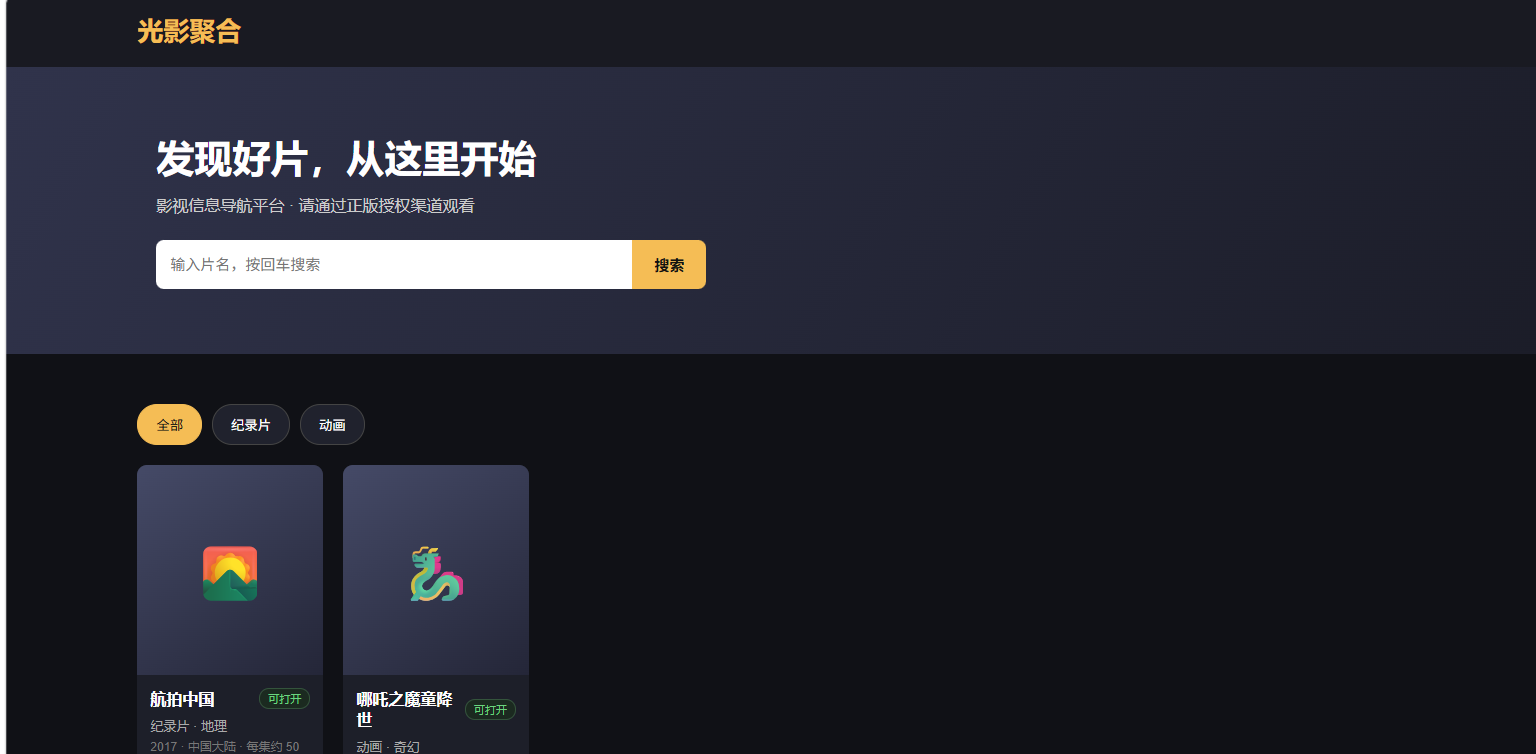
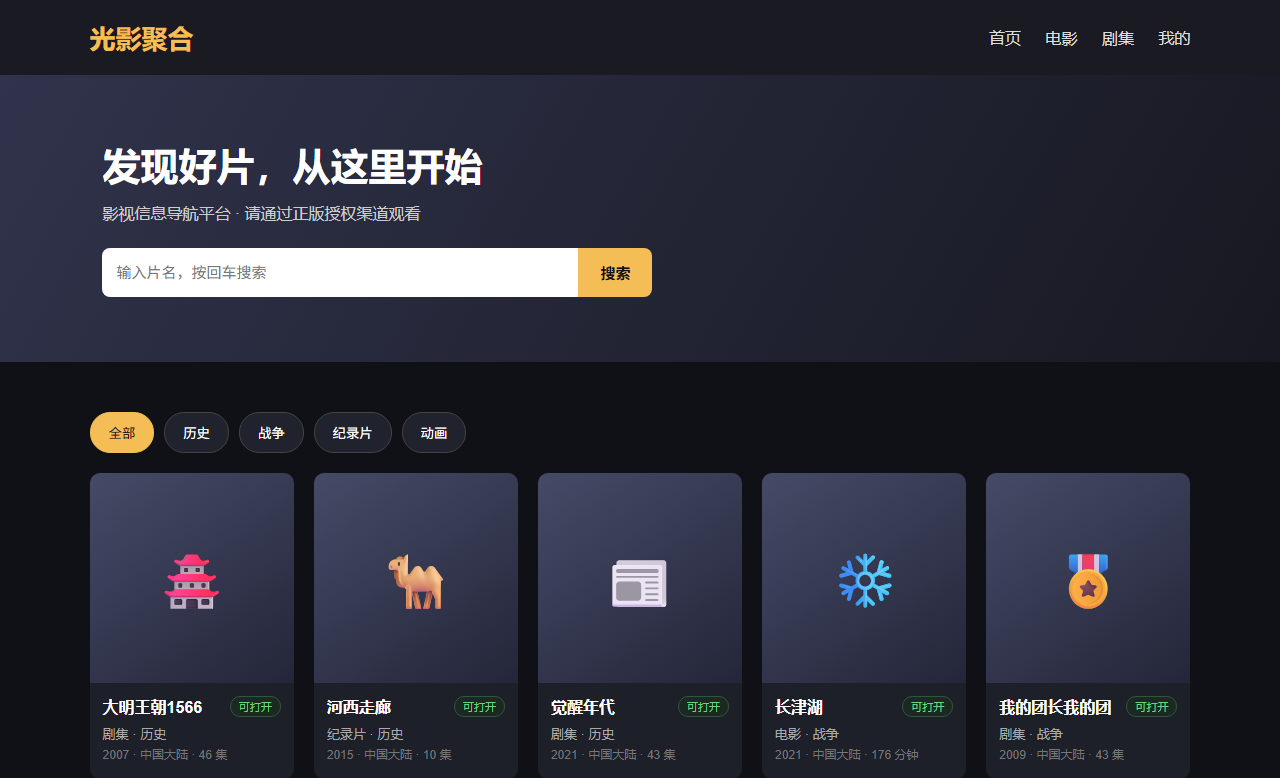
feat: 新增 6 部历史/战争题材影片，分类筛选支持多标签

diff --git a/index.html b/index.html
@@ -477,11 +477,67 @@ main {
 
   <div class="categories">
     <button class="active" onclick="filterMovies('全部', this)">全部</button>
+    <button onclick="filterMovies('历史', this)">历史</button>
+    <button onclick="filterMovies('战争', this)">战争</button>
     <button onclick="filterMovies('纪录片', this)">纪录片</button>
     <button onclick="filterMovies('动画', this)">动画</button>
   </div>
 
   <div class="movies">
+
+    <div class="movie" data-type="历史" data-name="大明王朝1566" onclick="openDetail('大明王朝1566')">
+      <div class="poster">🏯</div>
+      <div class="movie-info">
+        <h3>大明王朝1566 <span class="badge">可打开</span></h3>
+        <p>剧集 · 历史</p>
+        <p class="meta">2007 · 中国大陆 · 46 集</p>
+      </div>
+    </div>
+
+    <div class="movie" data-type="历史 纪录片" data-name="河西走廊" onclick="openDetail('河西走廊')">
+      <div class="poster">🐫</div>
+      <div class="movie-info">
+        <h3>河西走廊 <span class="badge">可打开</span></h3>
+        <p>纪录片 · 历史</p>
+        <p class="meta">2015 · 中国大陆 · 10 集</p>
+      </div>
+    </div>
+
+    <div class="movie" data-type="历史" data-name="觉醒年代" onclick="openDetail('觉醒年代')">
+      <div class="poster">📰</div>
+      <div class="movie-info">
+        <h3>觉醒年代 <span class="badge">可打开</span></h3>
+        <p>剧集 · 历史</p>
+        <p class="meta">2021 · 中国大陆 · 43 集</p>
+      </div>
+    </div>
+
+    <div class="movie" data-type="战争" data-name="长津湖" onclick="openDetail('长津湖')">
+      <div class="poster">❄</div>
+      <div class="movie-info">
+        <h3>长津湖 <span class="badge">可打开</span></h3>
+        <p>电影 · 战争</p>
+        <p class="meta">2021 · 中国大陆 · 176 分钟</p>
+      </div>
+    </div>
+
+    <div class="movie" data-type="战争" data-name="我的团长我的团" onclick="openDetail('我的团长我的团')">
+      <div class="poster">🎖</div>
+      <div class="movie-info">
+        <h3>我的团长我的团 <span class="badge">可打开</span></h3>
+        <p>剧集 · 战争</p>
+        <p class="meta">2009 · 中国大陆 · 43 集</p>
+      </div>
+    </div>
+
+    <div class="movie" data-type="战争" data-name="八佰" onclick="openDetail('八佰')">
+      <div class="poster">🧱</div>
+      <div class="movie-info">
+        <h3>八佰 <span class="badge">可打开</span></h3>
+        <p>电影 · 战争</p>
+        <p class="meta">2020 · 中国大陆 · 147 分钟</p>
+      </div>
+    </div>
 
     <div class="movie" data-type="纪录片" data-name="航拍中国" onclick="openDetail('航拍中国')">
       <div class="poster">🌄</div>
@@ -541,6 +597,42 @@ var MOVIES = {
     meta: ["动画", "奇幻", "2019", "中国大陆", "110 分钟", "票房 50 亿+"],
     desc: "天地灵气孕育出的混元珠被一分为二，哪吒阴差阳错成为魔丸转世，被陈塘关百姓视为妖怪。面对注定三年后遭天雷摧毁的命运，他喊出\"我命由我不由天\"，最终与敖丙、父母共同对抗天命。",
     keyword: "哪吒之魔童降世 电影"
+  },
+  "大明王朝1566": {
+    poster: "🏯",
+    meta: ["剧集", "历史", "2007", "中国大陆", "46 集", "豆瓣 9.8"],
+    desc: "以明朝嘉靖年间为背景，围绕\"改稻为桑\"国策展开。一边是二十年不上朝的嘉靖帝与严嵩父子的权谋周旋，一边是海瑞抬棺上疏的死谏，把朝堂政治写成了刀光剑影的博弈，被观众称为\"中国历史剧的天花板\"。",
+    keyword: "大明王朝1566 电视剧"
+  },
+  "河西走廊": {
+    poster: "🐫",
+    meta: ["纪录片", "历史", "2015", "中国大陆", "10 集", "豆瓣 9.7"],
+    desc: "以河西走廊这条狭长地理通道为线索，从汉代张骞出使西域讲到当代，串联起丝绸之路两千年的军事、宗教、商贸与文明交流，配乐与摄影被反复称赞。",
+    keyword: "河西走廊 纪录片"
+  },
+  "觉醒年代": {
+    poster: "📰",
+    meta: ["剧集", "历史", "2021", "中国大陆", "43 集", "豆瓣 9.3"],
+    desc: "从 1915 年《青年杂志》创刊讲起，到 1921 年中国共产党成立为止，再现陈独秀、李大钊、胡适、鲁迅等知识分子在旧中国寻找出路的过程，把教科书写成了有温度的人物故事。",
+    keyword: "觉醒年代 电视剧"
+  },
+  "长津湖": {
+    poster: "❄",
+    meta: ["电影", "战争", "2021", "中国大陆", "176 分钟", "票房 57 亿+"],
+    desc: "以抗美援朝第二次战役中的长津湖战役为背景，讲述志愿军第七穿插连在零下四十度的极寒中执行穿插任务、切断敌军退路的过程，是华语影史票房最高的影片之一。",
+    keyword: "长津湖 电影"
+  },
+  "我的团长我的团": {
+    poster: "🎖",
+    meta: ["剧集", "战争", "2009", "中国大陆", "43 集", "豆瓣 9.5"],
+    desc: "1942 年滇西战场，一群从溃败中活下来的溃兵被临时编成一团，在神秘团长龙文章的带领下于禅达一带与日军反复拉锯。全剧几乎没有\"高大全\"的英雄，写的是战争里普通人怎么活下去。",
+    keyword: "我的团长我的团 电视剧"
+  },
+  "八佰": {
+    poster: "🧱",
+    meta: ["电影", "战争", "2020", "中国大陆", "147 分钟", "票房 30 亿+"],
+    desc: "1937 年淞沪会战末期，第 88 师 524 团一营坚守苏州河北岸的四行仓库，与日军激战四昼夜。河对岸是租界的灯火，仓库里是必死的坚守，史称\"八百壮士\"。",
+    keyword: "八佰 电影"
   }
 };
 
@@ -582,7 +674,8 @@ function filterMovies(type, button) {
   var shown = 0;
 
   movies.forEach(function (movie) {
-    if (type === "全部" || movie.dataset.type === type) {
+    var types = (movie.dataset.type || "").split(/\s+/);
+    if (type === "全部" || types.indexOf(type) !== -1) {
       movie.style.display = "block";
       shown++;
     } else {
